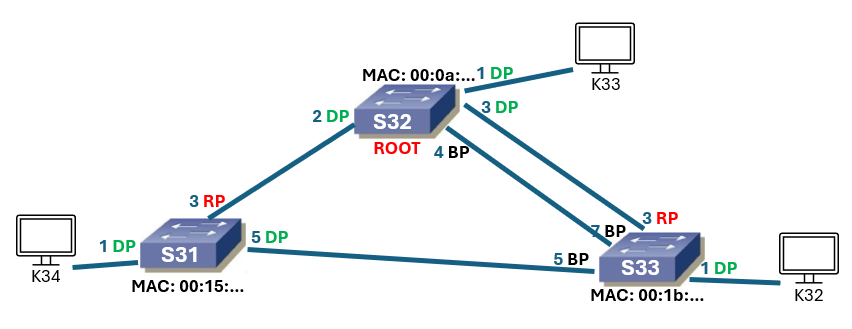
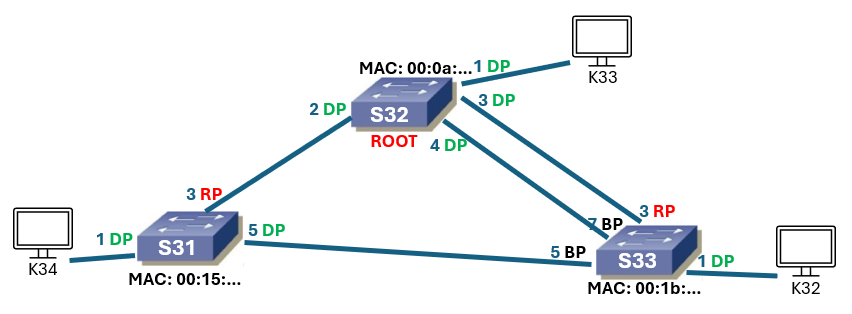
Poprawiony schemat stp

diff --git a/README.md b/README.md
@@ -8,4 +8,4 @@ Notatki z zajęć z sieci komputerowych:
 
 4. STP.
 
-5. ...
+5. Wi-Fi (dodatkowe) - jeszcze wrzucę na weekendzie
